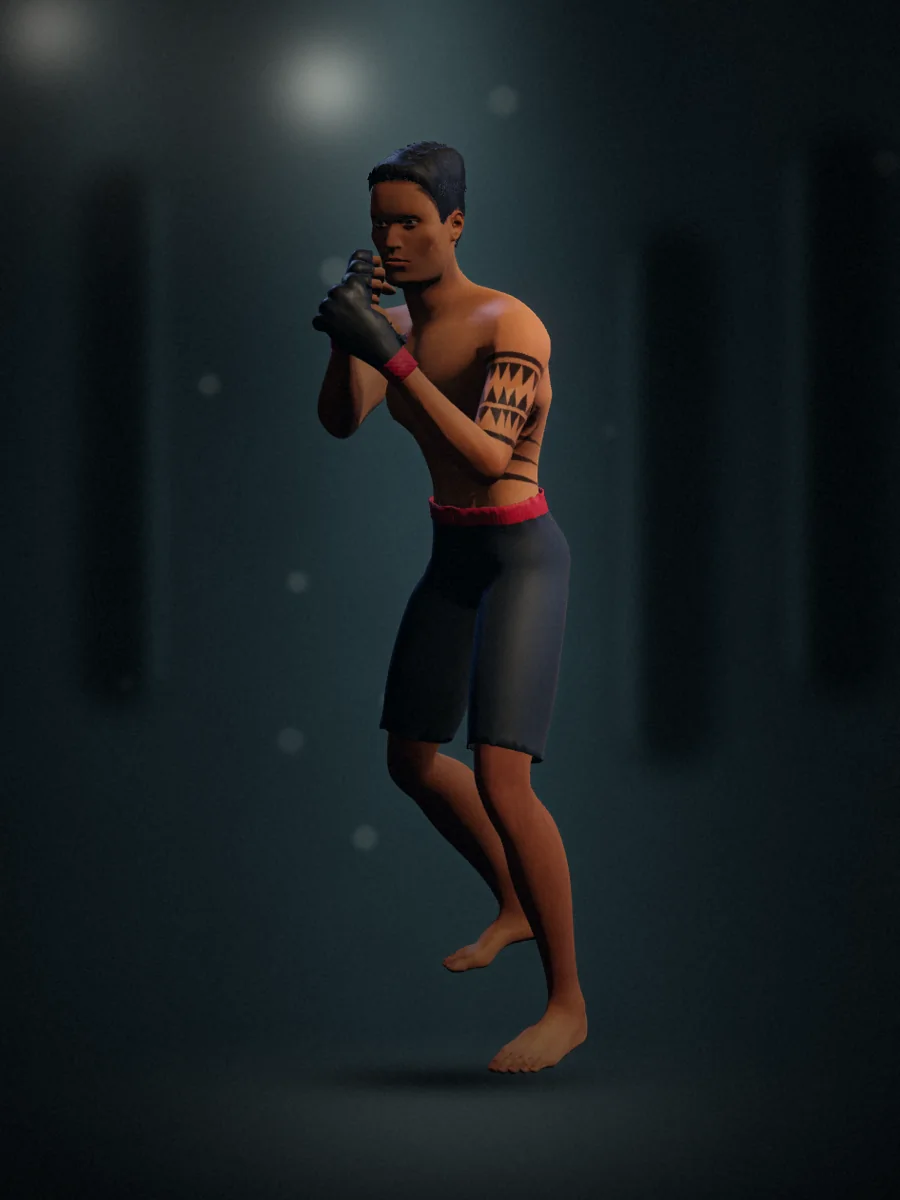
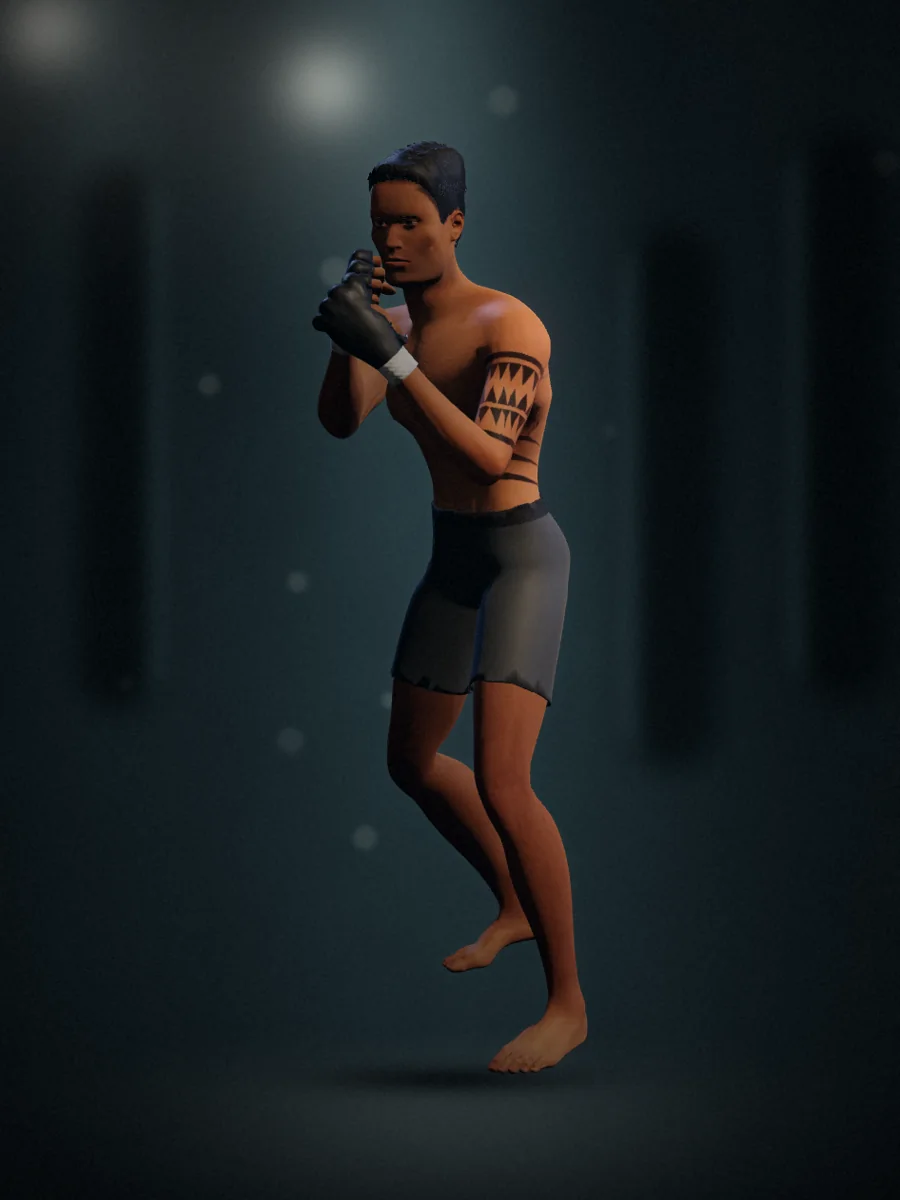
1.9.0 : fiches coach compactes qui se retournent, portraits avec la nouvelle tenue MMA
- « Choisis ton coach » : les quatre fiches et « Valider » tiennent sur un écran (400x820 et 360x640) ;
  un appui choisit le coach et retourne sa fiche (surnom, taille, style, garde, points forts), un 2e appui la remet
- catalogue : taille (mesurée sur le modèle 3D), garde et points forts de chaque coach
- portraits des 4 coachs refaits avec la nouvelle tenue MMA
- e2e : coachs-v160.spec, fiches sur un écran et retournement (2 tailles d'écran)

Claude-Session: https://claude.ai/code/session_01LGzE8KV3tWUEXyBrXGuzo3

diff --git a/src/ui/screens/CoachSelect.tsx b/src/ui/screens/CoachSelect.tsx
@@ -1,4 +1,5 @@
 import { ALL_COACHES, CHAMPIONS, championFor, type ChampionCoach } from '../../domain/coaches/catalog';
+import { useState } from 'react';
 import { useNavigate, useSearchParams } from 'react-router-dom';
 import { useProfile } from '../../store/profile';
 import { PageHead } from '../components';
@@ -22,37 +23,74 @@ export function pickChampion(c: ChampionCoach) {
   st.update({ coach: c.coach, champion: c.id });
 }
 
-/** The coaches in a grid; nothing is selected until the user taps one. Without props: the stored choice. */
+/**
+ * The coaches in a grid; nothing is selected until the user taps one. Without props: the stored choice.
+ * 1.9 (Youssef 2026-10-29: « diminue la taille des fiches coach pour que cela tienne sur une page, un clic sur la
+ * fiche doit la faire pivoter sur un mode plus de détails »): compact cards; a tap chooses the coach and turns its
+ * card over (surnom, taille, garde, style, points forts); a second tap turns it back.
+ */
 export function CoachPicker({ value, onChange }: { value?: string | null; onChange?: (c: ChampionCoach) => void }) {
   const stored = useChosenCoach();
   const current = value === undefined ? stored : value;
+  const [turned, setTurned] = useState<string | null>(null);
   return (
     <div className="coach-pick" role="radiogroup" aria-label="Choix du coach">
-      {COACHES.map((c, i) => (
-        <button
-          key={c.id}
-          type="button"
-          role="radio"
-          aria-checked={current === c.id}
-          className={`coach-card ${current === c.id ? 'on' : ''}`}
-          onClick={() => (onChange ?? pickChampion)(ALL_COACHES[i])}
-          data-testid={c.id === CHAMPIONS.homme.id ? 'coach-homme' : c.id === CHAMPIONS.femme.id ? 'coach-femme' : `coach-${c.id}`}
-        >
-          <img src={c.img} alt="" loading="eager" />
-          {current === c.id && (
-            <span className="tick" aria-hidden>
-              <AppIcon id="check" size={18} />
+      {ALL_COACHES.map((c) => {
+        const on = current === c.id;
+        const back = turned === c.id;
+        return (
+          <button
+            key={c.id}
+            type="button"
+            role="radio"
+            aria-checked={on}
+            aria-expanded={back}
+            aria-label={`${c.name} « ${c.nickname} »${back ? ', détails affichés' : ''}`}
+            className={`coach-card ${on ? 'on' : ''} ${back ? 'turned' : ''}`}
+            onClick={() => {
+              (onChange ?? pickChampion)(c);
+              setTurned(back ? null : c.id);
+            }}
+            data-testid={c.id === CHAMPIONS.homme.id ? 'coach-homme' : c.id === CHAMPIONS.femme.id ? 'coach-femme' : `coach-${c.id}`}
+          >
+            <span className="coach-flip">
+              <span className="coach-face front" aria-hidden={back}>
+                <img src={c.portrait} alt="" loading="eager" />
+                <span className="lbl">
+                  {c.name}
+                  <span className="nick">« {c.nickname} »</span>
+                </span>
+              </span>
+              <span className="coach-face back" aria-hidden={!back} data-testid={`coach-details-${c.id}`}>
+                <span className="lbl">
+                  {c.name}
+                  <span className="nick">« {c.nickname} »</span>
+                </span>
+                <span className="facts">
+                  <span>
+                    <b>Taille</b> {c.height}
+                  </span>
+                  <span>
+                    <b>Style</b> {c.style}
+                  </span>
+                  <span>
+                    <b>Garde</b> {c.guard}
+                  </span>
+                  <span>
+                    <b>Points forts</b> {c.strengths.join(' · ')}
+                  </span>
+                </span>
+                <span className="again">Touche pour revenir</span>
+              </span>
             </span>
-          )}
-          <span className="lbl">
-            {c.name}
-            <br />
-            <span className="small muted" style={{ fontWeight: 500 }}>
-              {c.desc}
-            </span>
-          </span>
-        </button>
-      ))}
+            {on && (
+              <span className="tick" aria-hidden>
+                <AppIcon id="check" size={16} />
+              </span>
+            )}
+          </button>
+        );
+      })}
     </div>
   );
 }

diff --git a/src/ui/styles.css b/src/ui/styles.css
@@ -1041,33 +1041,61 @@ input[type='range'] {
 .coach-pick {
   display: grid;
   grid-template-columns: 1fr 1fr;
-  gap: 12px;
+  gap: 10px;
 }
 
+/* 1.9: compact cards (the four coaches and the button fit on one phone screen); a tap turns the card over */
 .coach-card {
+  /* header, button and bottom bar take about 310 px; two rows of cards share the rest (label: 48 px) */
+  --card-img: clamp(84px, calc((100dvh - 312px) / 2 - 48px), 240px);
   border: 2px solid transparent;
   border-radius: var(--radius-l);
-  overflow: hidden;
   background: var(--soft);
   color: var(--ink);
   cursor: pointer;
   padding: 0;
-  display: flex;
-  flex-direction: column;
   text-align: left;
   position: relative;
-  transition:
-    border-color var(--t-fast) var(--ease),
-    transform var(--t-fast) var(--ease);
+  perspective: 900px;
+  transition: border-color var(--t-fast) var(--ease);
 }
 
-.coach-card:active {
-  transform: scale(0.99);
+.coach-card .coach-flip {
+  display: grid;
+  transform-style: preserve-3d;
+  transition: transform 0.45s var(--ease);
+}
+
+.coach-card.turned .coach-flip {
+  transform: rotateY(180deg);
+}
+
+.coach-card .coach-face {
+  grid-area: 1 / 1;
+  position: relative;
+  display: flex;
+  flex-direction: column;
+  backface-visibility: hidden;
+  -webkit-backface-visibility: hidden;
+  border-radius: calc(var(--radius-l) - 2px);
+  overflow: hidden;
+  min-width: 0;
+}
+
+/* the back takes the size of the front (photo + name), its details scroll if a small screen needs it */
+.coach-card .coach-face.back {
+  position: absolute;
+  inset: 0;
+  overflow-y: auto;
+  transform: rotateY(180deg);
+  background: var(--soft);
+  padding: 10px;
+  gap: 6px;
 }
 
 .coach-card img {
   width: 100%;
-  aspect-ratio: 3 / 4;
+  height: var(--card-img);
   object-fit: cover;
   object-position: top;
   background: #fff;
@@ -1075,15 +1103,48 @@ input[type='range'] {
 }
 
 .coach-card .lbl {
-  padding: 12px;
+  padding: 6px 10px 8px;
   font-family: var(--font-display);
-  font-size: 1.15rem;
+  font-size: 1.05rem;
   font-weight: 700;
+  line-height: 1.15;
+  display: flex;
+  flex-direction: column;
 }
 
-.coach-card .lbl .small {
+.coach-card .back .lbl {
+  padding: 0;
+}
+
+.coach-card .nick {
   font-family: var(--font-text);
-  font-size: 0.82rem;
+  font-size: 0.78rem;
+  font-weight: 600;
+  color: var(--red-ink, var(--red));
+}
+
+.coach-card .facts {
+  display: flex;
+  flex-direction: column;
+  gap: 4px;
+  font-size: 0.76rem;
+  line-height: 1.3;
+  flex-shrink: 0;
+}
+
+.coach-card .facts b {
+  display: block;
+  font-size: 0.66rem;
+  letter-spacing: 0.06em;
+  text-transform: uppercase;
+  color: var(--muted, inherit);
+}
+
+.coach-card .again {
+  margin-top: auto;
+  flex-shrink: 0;
+  font-size: 0.7rem;
+  opacity: 0.7;
 }
 
 .coach-card.on,
@@ -1093,15 +1154,22 @@ input[type='range'] {
 
 .coach-card .tick {
   position: absolute;
-  top: 10px;
-  right: 10px;
-  width: 30px;
-  height: 30px;
+  top: 8px;
+  right: 8px;
+  width: 26px;
+  height: 26px;
   border-radius: 50%;
   background: var(--red);
   color: var(--on-red);
   display: grid;
   place-items: center;
+  z-index: 1;
+}
+
+@media (prefers-reduced-motion: reduce) {
+  .coach-card .coach-flip {
+    transition: none;
+  }
 }
 
 /* -------------------------------------------------- bottom navigation */

diff --git a/tests/e2e/coachs-v160.spec.ts b/tests/e2e/coachs-v160.spec.ts
@@ -30,3 +30,42 @@ test('quatre coachs : Kaila choisie au premier lancement, Axel depuis « Changer
   await page.reload();
   await expect(page.getByTestId('fighter-name')).toHaveText('Axel');
 });
+
+/**
+ * 1.9 (Youssef 2026-10-29: « diminue la taille des fiches coach pour que cela tienne sur une page dans choisi ton
+ * coach, un clic sur la fiche doit faire pivoter la fiche sur un mode plus de détails »)
+ */
+for (const [w, h] of [
+  [400, 820],
+  [360, 640],
+])
+  test(`fiches coach ${w}x${h} : les quatre et « Valider » tiennent sur un écran, un appui retourne la fiche`, async ({ page }) => {
+    await page.setViewportSize({ width: w, height: h });
+    await page.goto('/');
+    await page.getByTestId('next').click();
+    await page.getByTestId('coach-axel').click();
+    await page.getByTestId('next').click();
+    for (let i = 0; i < 4; i++) await page.getByTestId('next').click();
+    await page.getByTestId('finish').click();
+    await page.goto('/#/coach');
+    await expect(page.locator('.coach-card')).toHaveCount(4);
+    // no page scroll: every card and the button inside the screen, above the bottom bar
+    expect(await page.evaluate(() => document.scrollingElement!.scrollHeight)).toBeLessThanOrEqual(h);
+    const bar = await page.getByTestId('bottom-bar').boundingBox();
+    for (const id of ['coach-homme', 'coach-axel', 'coach-femme', 'coach-kaila', 'coach-valider']) {
+      const b = (await page.getByTestId(id).boundingBox())!;
+      expect(b.y + b.height, id).toBeLessThanOrEqual(bar ? bar.y + 1 : h);
+    }
+    // the details are on the back of the card
+    const details = page.getByTestId('coach-details-kaila');
+    await expect(details).toHaveAttribute('aria-hidden', 'true');
+    await page.getByTestId('coach-kaila').click();
+    await expect(page.getByTestId('coach-kaila')).toHaveAttribute('aria-checked', 'true');
+    await expect(page.getByTestId('coach-kaila')).toHaveAttribute('aria-expanded', 'true');
+    await expect(details).toHaveAttribute('aria-hidden', 'false');
+    for (const t of ['La Valkyrie', 'Taille', '1,65 m', 'Garde', 'Points forts']) await expect(details).toContainText(t);
+    // a second tap turns it back, the coach stays chosen
+    await page.getByTestId('coach-kaila').click();
+    await expect(page.getByTestId('coach-kaila')).toHaveAttribute('aria-expanded', 'false');
+    await expect(page.getByTestId('coach-kaila')).toHaveAttribute('aria-checked', 'true');
+  });

diff --git a/src/domain/coaches/catalog.ts b/src/domain/coaches/catalog.ts
@@ -20,6 +20,11 @@ export interface ChampionCoach {
   bio: string;
   /** rendered from our own 3D model */
   portrait: string;
+  /** 1.9 (back of the coach card): height of the 3D model, rounded; how the guard looks (src/domain/coaches/motion.ts) */
+  height: string;
+  guard: string;
+  /** what the coach shows best, taken from the motion profile and the bio (no invented numbers) */
+  strengths: string[];
 }
 
 export const CHAMPIONS: Record<CoachId, ChampionCoach> = {
@@ -31,6 +36,9 @@ export const CHAMPIONS: Record<CoachId, ChampionCoach> = {
     style: 'Lutteur patient, pression constante',
     bio: 'Garde basse, pas courts, changements de niveau : Kadir avance sans relâche et ne gaspille aucun geste.',
     portrait: './coaches/mma-kadir/portrait.webp',
+    height: '1,80 m',
+    guard: 'Basse, buste au-dessus des genoux, mains ouvertes devant pour saisir',
+    strengths: ['Changements de niveau', 'Pression constante', 'Lutte et contrôle'],
   },
   femme: {
     id: 'mma-amara',
@@ -40,6 +48,9 @@ export const CHAMPIONS: Record<CoachId, ChampionCoach> = {
     style: 'Frappeuse puissante, garde haute',
     bio: 'Garde de face, poings fermés, droite chargée : Amara frappe fort et juste, puis enchaîne.',
     portrait: './coaches/mma-amara/portrait.webp',
+    height: '1,73 m',
+    guard: 'Haute et de profil, poings fermés, droite chargée',
+    strengths: ['Puissance des frappes', 'Précision', 'Enchaînements'],
   },
 };
 
@@ -57,6 +68,9 @@ export const EXTRA_COACHES: ChampionCoach[] = [
     style: 'Frappeur longiligne, regard de pierre',
     bio: 'Grand, sec, posture droite et bras relâchés : Axel ne gaspille rien et frappe de loin, sans prévenir.',
     portrait: './coaches/axel/portrait.webp',
+    height: '1,94 m',
+    guard: 'Droite et haute, bras un peu relâchés',
+    strengths: ['Allonge', 'Frappes de loin', 'Économie de mouvement'],
   },
   {
     id: 'kaila',
@@ -66,6 +80,9 @@ export const EXTRA_COACHES: ChampionCoach[] = [
     style: 'Puissante et compacte, toujours vers l’avant',
     bio: 'Centre de gravité bas, mains ouvertes prêtes à saisir : Kaila avance sans cesse et impose son rythme.',
     portrait: './coaches/kaila/portrait.webp',
+    height: '1,65 m',
+    guard: 'Basse et large, buste vers l’avant, mains ouvertes prêtes à saisir',
+    strengths: ['Centre de gravité bas', 'Avancée constante', 'Saisies'],
   },
 ];
 
